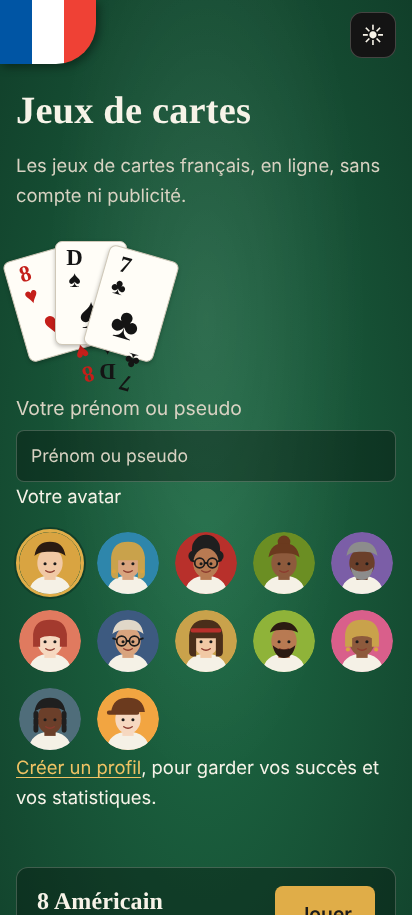
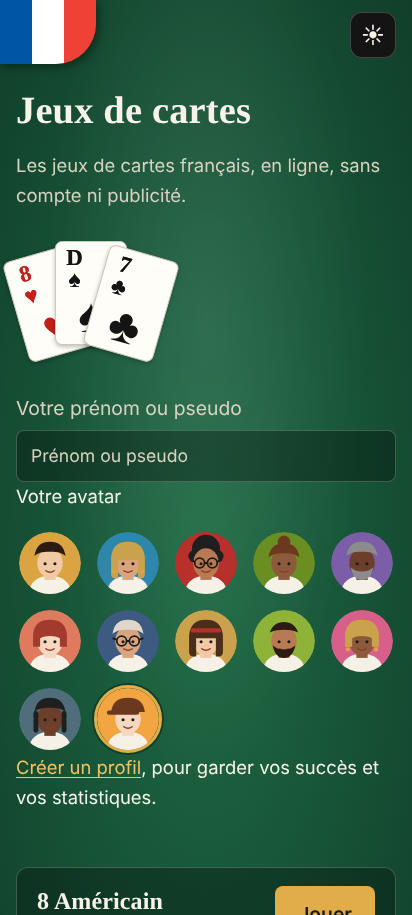
Journal et captures du manifeste : version 0.3.1

diff --git a/packages/client/public/sw.js b/packages/client/public/sw.js
@@ -16,7 +16,7 @@
  * Une partie se joue sur le serveur : hors ligne, on ne fait pas semblant, on l'explique.
  */
 
-const VERSION = '0.3.0';
+const VERSION = '0.3.1';
 const CACHE = `jdc-${VERSION}`;
 const HORS_LIGNE = '/hors-ligne/';
 

diff --git a/docs/JOURNAL.md b/docs/JOURNAL.md
@@ -6,6 +6,22 @@ visible sur `/api/version` du site. Le journal est repris tel quel dans le wiki 
 
 ---
 
+## 0.3.1 — 16 octobre 2026
+
+**Correction : les valeurs des cartes se lisent toujours à l'endroit.**
+
+Corrigé
+- Une carte portait deux index, dont celui du bas pivoté à 180°, comme sur une vraie
+  carte tenue en éventail. Sur un écran, la carte ne tourne jamais : **un 6 pivoté se
+  lisait « 9 »**. L'index retourné remontait de surcroît à côté de celui du haut, faute
+  de placement de grille explicite, et dépassait sous la carte voisine dans la main —
+  d'où un mélange d'indices à l'endroit et à l'envers, signalé depuis une tablette.
+- Une carte porte désormais **un index unique, en haut à gauche, toujours à l'endroit**,
+  agrandi, placé explicitement : c'est la seule zone qu'aucune carte voisine ne recouvre
+  dans une main en éventail. Captures d'écran du manifeste refaites en conséquence.
+
+---
+
 ## 0.3.0 — 16 octobre 2026
 
 **Application installable, sur ordinateur comme sur téléphone.**
